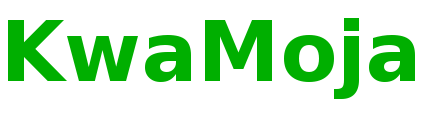
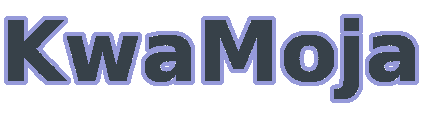
Verbessern Sie das Aussehen des Anmeldebildschirms
Files changed in commit:
css/kwamoja.png
css/login.css
includes/Login.php
On branch develop

diff --git a/css/login.css b/css/login.css
@@ -1,7 +1,7 @@
 body {
-background:#404552;
-color:#A3B7FF;
-font-family: Futura,Trebuchet MS,Arial,sans-serif; ;
+background: rgb(69,68,134);
+background: linear-gradient(90deg, #26386D 0%, #909EC9 100%);font-family: Futura,Trebuchet MS,Arial,sans-serif;
+color:#E6EAF7;
 font-size:10pt;
 margin:0;
 padding:0;
@@ -9,7 +9,7 @@ text-align:center
 }
 
 #container {
-border:solid #A49999 1px;
+border:solid #0B0B42 1px;
 border-radius:15px;
 margin:90px auto 0;
 opacity:1.0;
@@ -32,14 +32,14 @@ padding-left: 0%;
 }
 
 #login_box {
-background:#404552;
-border:solid #A49999 1px;
+background:#556699;
+border:solid #0B0B42 2px;
 border-radius:15px;
 margin:0 10px 10px 20px;
 }
 
 #login-container {
-width:70%;
+width:50%;
 }
 
 #contact_box {
@@ -66,11 +66,11 @@ select {
 -moz-border-radius:3px;
 -webkit-border-radius:3px;
 background:transparent;
-border-color:gray;
+border-color:#FFFFFF;
 border-radius:3px;
 border-style:solid;
 border-width:1px;
-color:#A3B7FF;
+color:#E6EAF7;
 font-size:100%;
 margin:10px 0 0;
 width:auto
@@ -78,7 +78,7 @@ width:auto
 
 select:hover, select:focus {
 background:transparent;
-border-color:#000;
+border-color:#FFFFFF;
 border-radius:3px;
 border-style:solid;
 border-width:1px;
@@ -89,11 +89,11 @@ box-shadow:0 0 5px #7E7575
 
 input {
 background-color:transparent;
-border-color:gray;
+border-color:#FFFFFF;
 border-radius:3px;
 border-style:solid;
 border-width:1px;
-color:#A3B7FF;
+color:#E6EAF7;
 font-size:100%;
 margin:10px 0 0;
 vertical-align:middle;
@@ -102,7 +102,7 @@ width:50%
 
 input:hover, input:focus {
 background-color:transparent;
-border-color:#000;
+border-color:#FFFFFF;
 border-style:solid;
 border-width:1px;
 font-size:100%;
@@ -110,10 +110,10 @@ box-shadow:0 0 5px #7E7575
 }
 
 button {
-background:#404552;
-border:solid gray 1px;
+background:transparent;
+border:solid #FFFFFF 2px;
 border-radius:7px;
-color:#A3B7FF;
+color:#E6EAF7;
 font-size:100%;
 font-weight:700;
 margin:10px 10px 10px 50px;
@@ -123,7 +123,7 @@ width:30%
 
 button:hover {
 background:transparent;
-color:#82BCF4;
+color:#E6EAF7;
 cursor:pointer;
 box-shadow:0 0 5px #7E7575
 }

diff --git a/includes/Login.php b/includes/Login.php
@@ -1,9 +1,7 @@
 <?php
-
 // Display demo user name and password within login form if $AllowDemoMode is true
-
-include('LanguageSetup.php');
-include('MobileDetect.php');
+include ('LanguageSetup.php');
+include ('MobileDetect.php');
 $MobileDetect = new Mobile_Detect;
 if ((isset($AllowDemoMode)) and ($AllowDemoMode == True) and (!isset($demo_text))) {
 	$demo_text = _('Login as user') . ': <i>' . _('admin') . '</i><br />' . _('with password') . ': <i>' . _('kwamoja') . '</i>';
@@ -21,7 +19,7 @@ echo '<link rel="shortcut icon" href="favicon.ico" type="image/x-icon" />';
 if (!$MobileDetect->isMobile()) {
 	echo '<link rel="stylesheet" href="css/login.css" type="text/css" />';
 } else {
-//	echo '<link rel="stylesheet" href="css/login-mobile.css" type="text/css" />';
+	//	echo '<link rel="stylesheet" href="css/login-mobile.css" type="text/css" />';
 	echo '<link rel="stylesheet" href="css/login.css" type="text/css" />';
 }
 ?>
@@ -54,7 +52,7 @@ if (get_magic_quotes_gpc()) {
 		<tr>
 			<th colspan="2">
 				<div id="login_logo">
-					<a href="<?php echo $HomePage; ?>" target="_blank"><img src="css/<?php echo $DefaultDatabase;?>.png" style="width:100%" /></a>
+					<a href="<?php echo $HomePage; ?>" target="_blank"><img src="css/<?php echo $DefaultDatabase; ?>.png" style="width:100%" /></a>
 				</div>
 			</th>
 		</tr>
@@ -76,7 +74,7 @@ if (isset($_COOKIE['Login'])) {
 if ($AllowCompanySelectionBox === 'Hide') {
 	// do not show input or selection box
 	echo '<input type="hidden" name="CompanyNameField"  value="' . $DefaultCompany . '" />';
-} else if ($AllowCompanySelectionBox === 'ShowInputBox'){
+} else if ($AllowCompanySelectionBox === 'ShowInputBox') {
 	// show input box
 	echo '<input type="text" required="required" autofocus="autofocus" name="CompanyNameField"  value="' . $DefaultCompany . '" />';
 } else {
@@ -88,7 +86,7 @@ if ($AllowCompanySelectionBox === 'Hide') {
 	while (false !== ($CompanyEntry = $DirHandle->read())) {
 		if (is_dir('companies/' . $CompanyEntry) and $CompanyEntry != '..' and $CompanyEntry != '' and $CompanyEntry != '.' and $CompanyEntry != 'default') {
 			if (file_exists('companies/' . $CompanyEntry . '/Companies.php')) {
-				include('companies/' . $CompanyEntry . '/Companies.php');
+				include ('companies/' . $CompanyEntry . '/Companies.php');
 			} else {
 				$CompanyName[$CompanyEntry] = $CompanyEntry;
 			}
@@ -130,24 +128,6 @@ echo _('Login');
 ?>
 					 <img src="css/tick.png" title="' . _('Upgrade') . '" alt="" class="ButtonIcon" /></button>
 					</form>
-				</div>
-			</td>
-			<td id="ProjectLinks">
-				<div>
-					<b>Join us at :</b><br />
-					<a href="<?php echo $SourceforgeSite; ?>" target="_blank"><img src="css/sourceforge-logo.png" style="width:70%; border: 1px solid #A49999;" /></a><br />
-					<a href="<?php echo $LaunchpadSite; ?>" target="_blank"><img src="css/launchpad.png" style="width:70%; border: 1px solid #A49999;" /></a><br />
-					<a href="<?php echo $CodeplexSite; ?>" target="_blank"><img src="css/codeplex-logo.png" style="width:70%; border: 1px solid #A49999;" /></a><br /><br />
-				</div>
-			</td>
-			<td id="ProjectLinks">
-				<div>
-					<b>Follow us at:</b>
-					<!--Follow us on twitter button-->
-					<a href="https://twitter.com/<?php echo $TwitterAccount; ?>" class="twitter-follow-button" data-show-count="false"><?php echo _('Follow') . ' @' . $TwitterAccount; ?></a><br />
-					<a href="https://plus.google.com/u/0/communities/<?php echo $GoogleCommunity; ?>" target="_blank"><img src="css/google-plus.png" style="width:50%; border: 1px solid #A49999;" /></a>
-					<a href="<?php echo $FacebookPage; ?>" target="_blank"><img src="css/FindUsOnFacebook.png" style="width:70%; border: 1px solid #A49999;" /></a>
-					<a href="<?php echo $LinkedInGroup; ?>" target="_blank"><img src="css/linkedin.png" style="width:70%; border: 1px solid #A49999;" /></a>
 				</div>
 			</td>
 		</tr>
